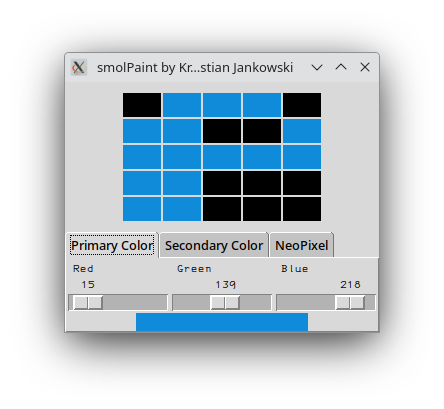
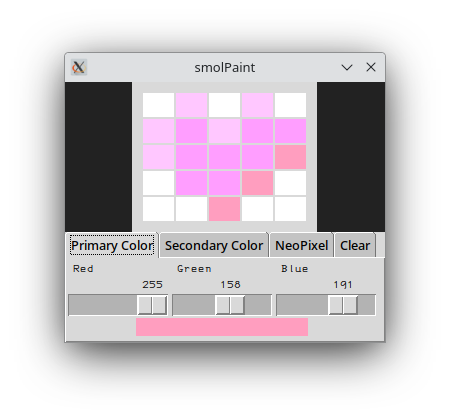
update

diff --git a/smolpaint.py b/smolpaint.py
@@ -15,7 +15,7 @@ class smolPaint:
         self.window.resizable(False, False)
         self.custom_font = font.Font(family="IBM 3270", size=10)
         self.window.option_add("*Font", self.custom_font)
-        self.window.configure(bg="#0A0A0A")
+        self.window.configure(bg="#222222")
 
         # Create frames with padding
         self.pixel_frame = tk.Frame(self.window, padx=10, pady=10)

diff --git a/README.md b/README.md
@@ -2,6 +2,8 @@
 Tiny paint program for 5x5 NeoPixel BFF Grid displays
 
 ![smolPaint Screenshot](smolpaint-1.png)
+![smolPaint Screenshot](smolpaint-2.png)
+![smolPaint Screenshot](smolpaint-3.png)
 
 ## 5x5 Pixel Art
 
